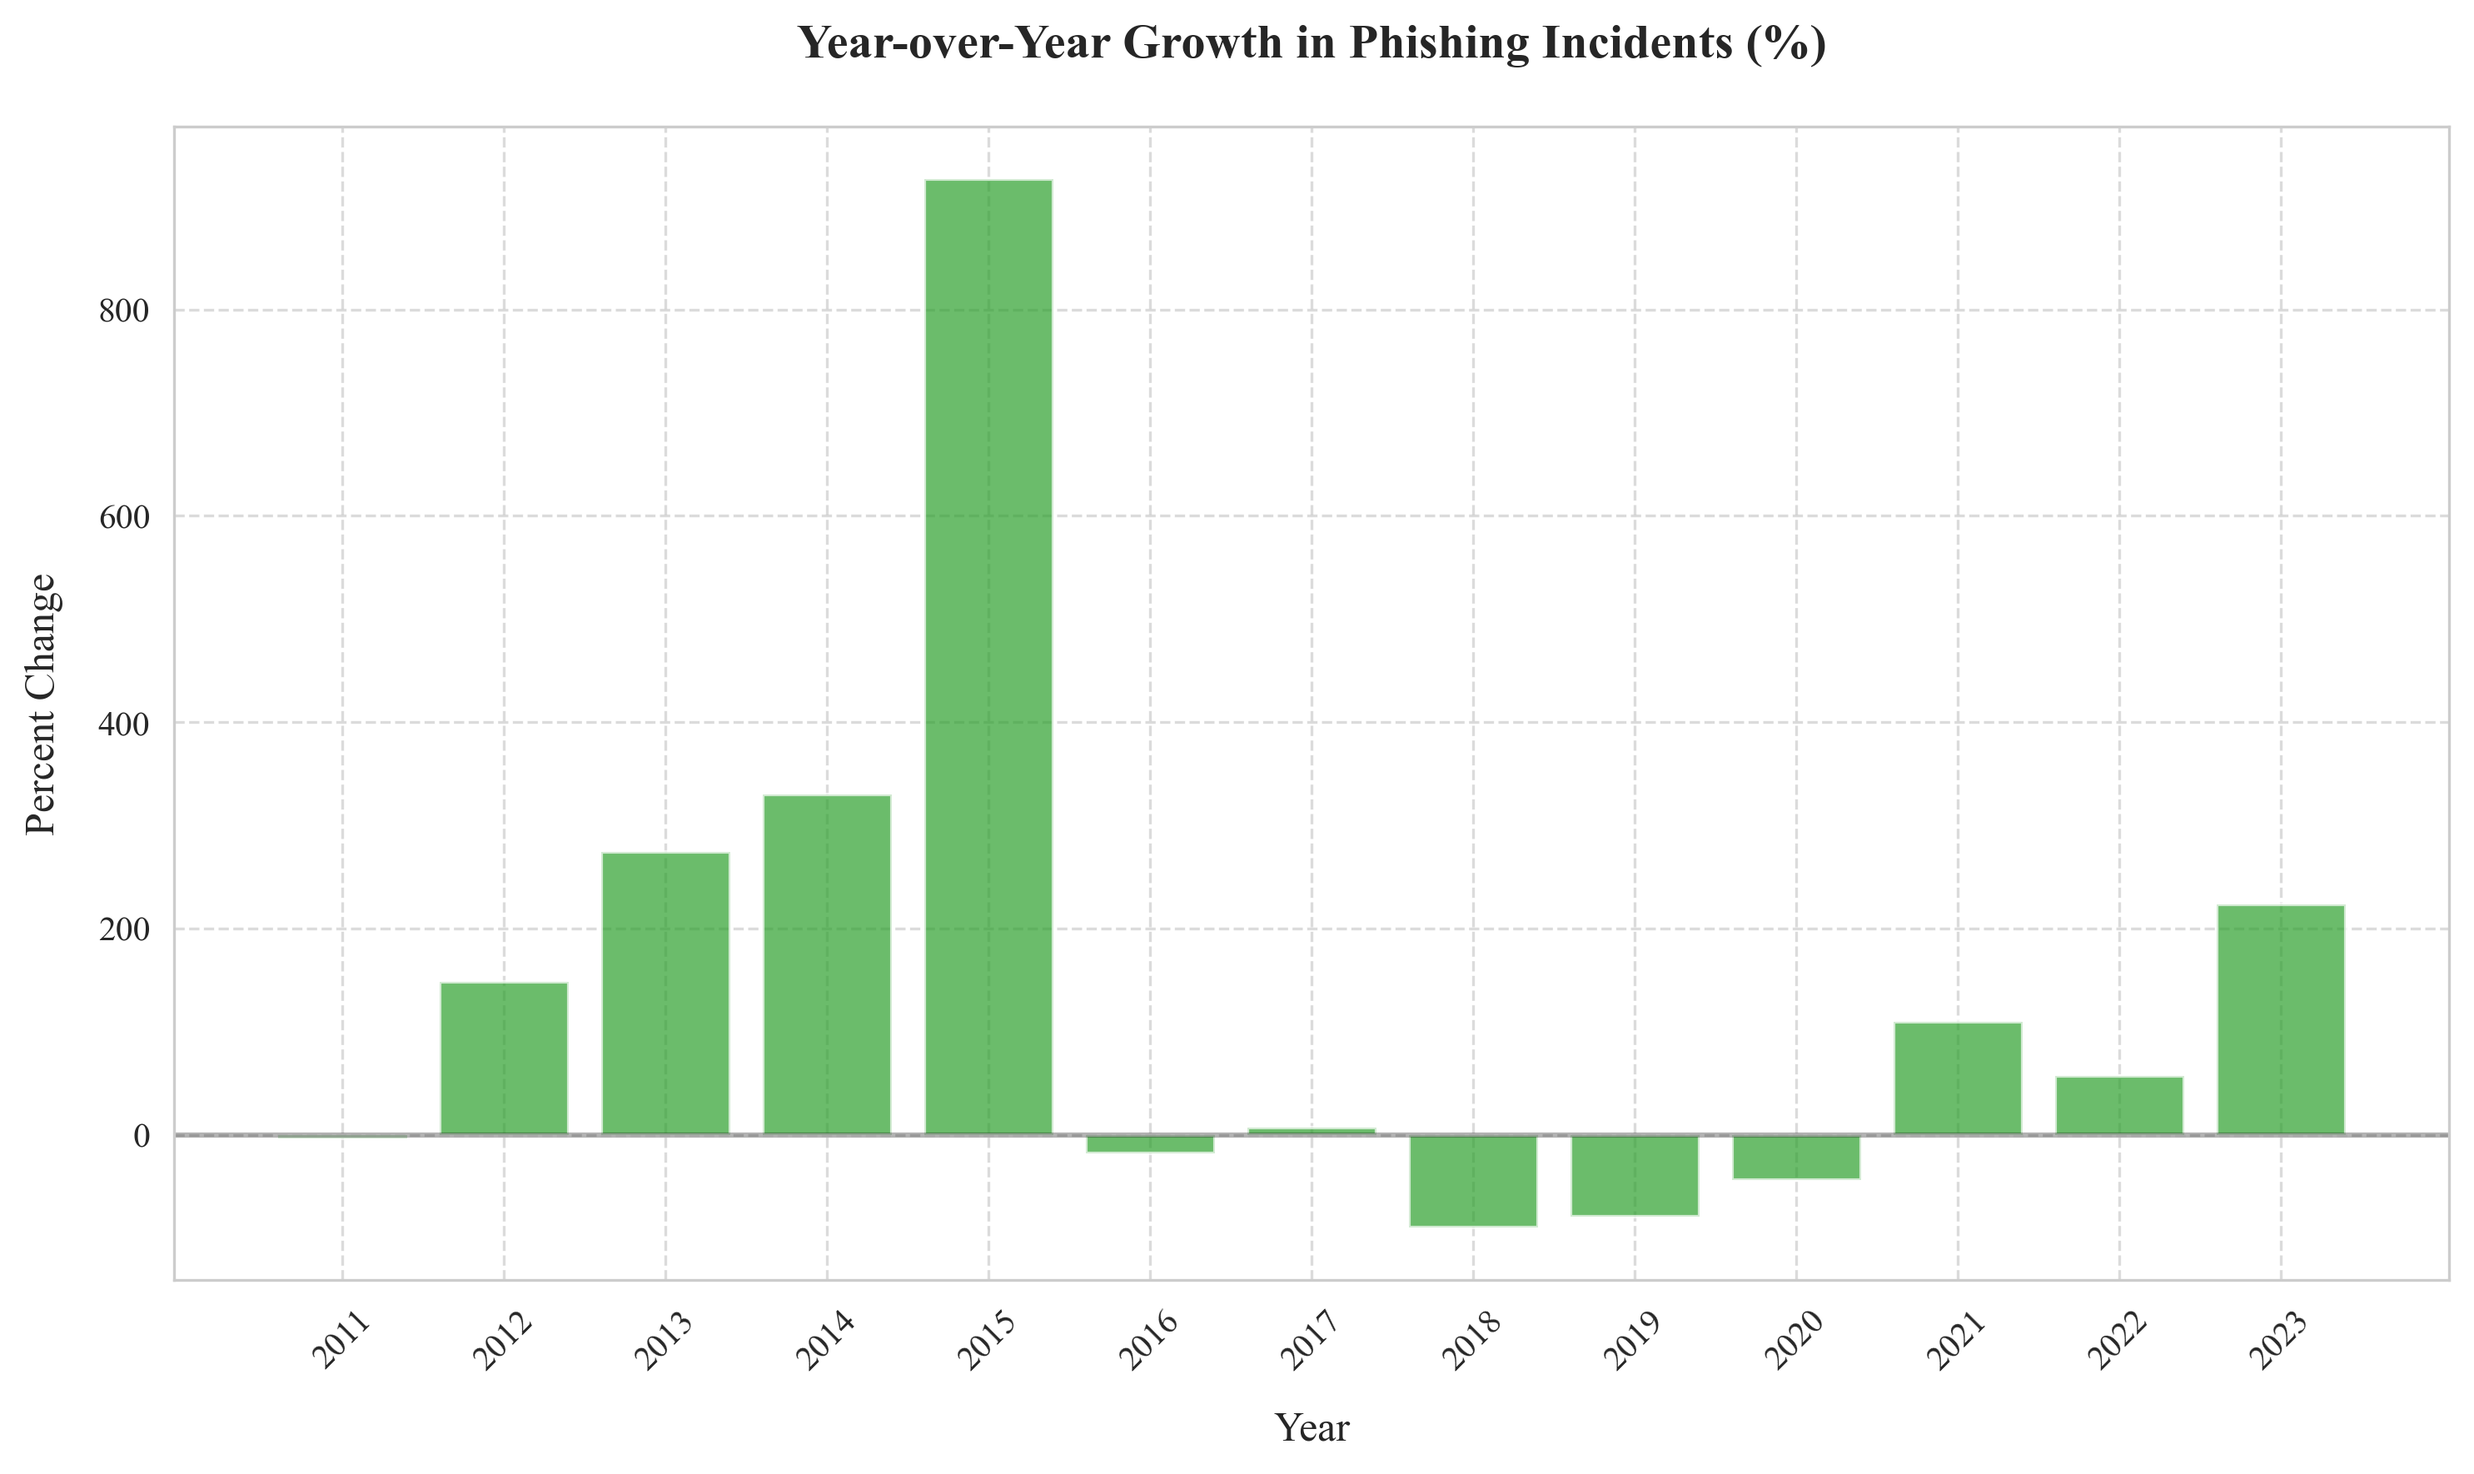
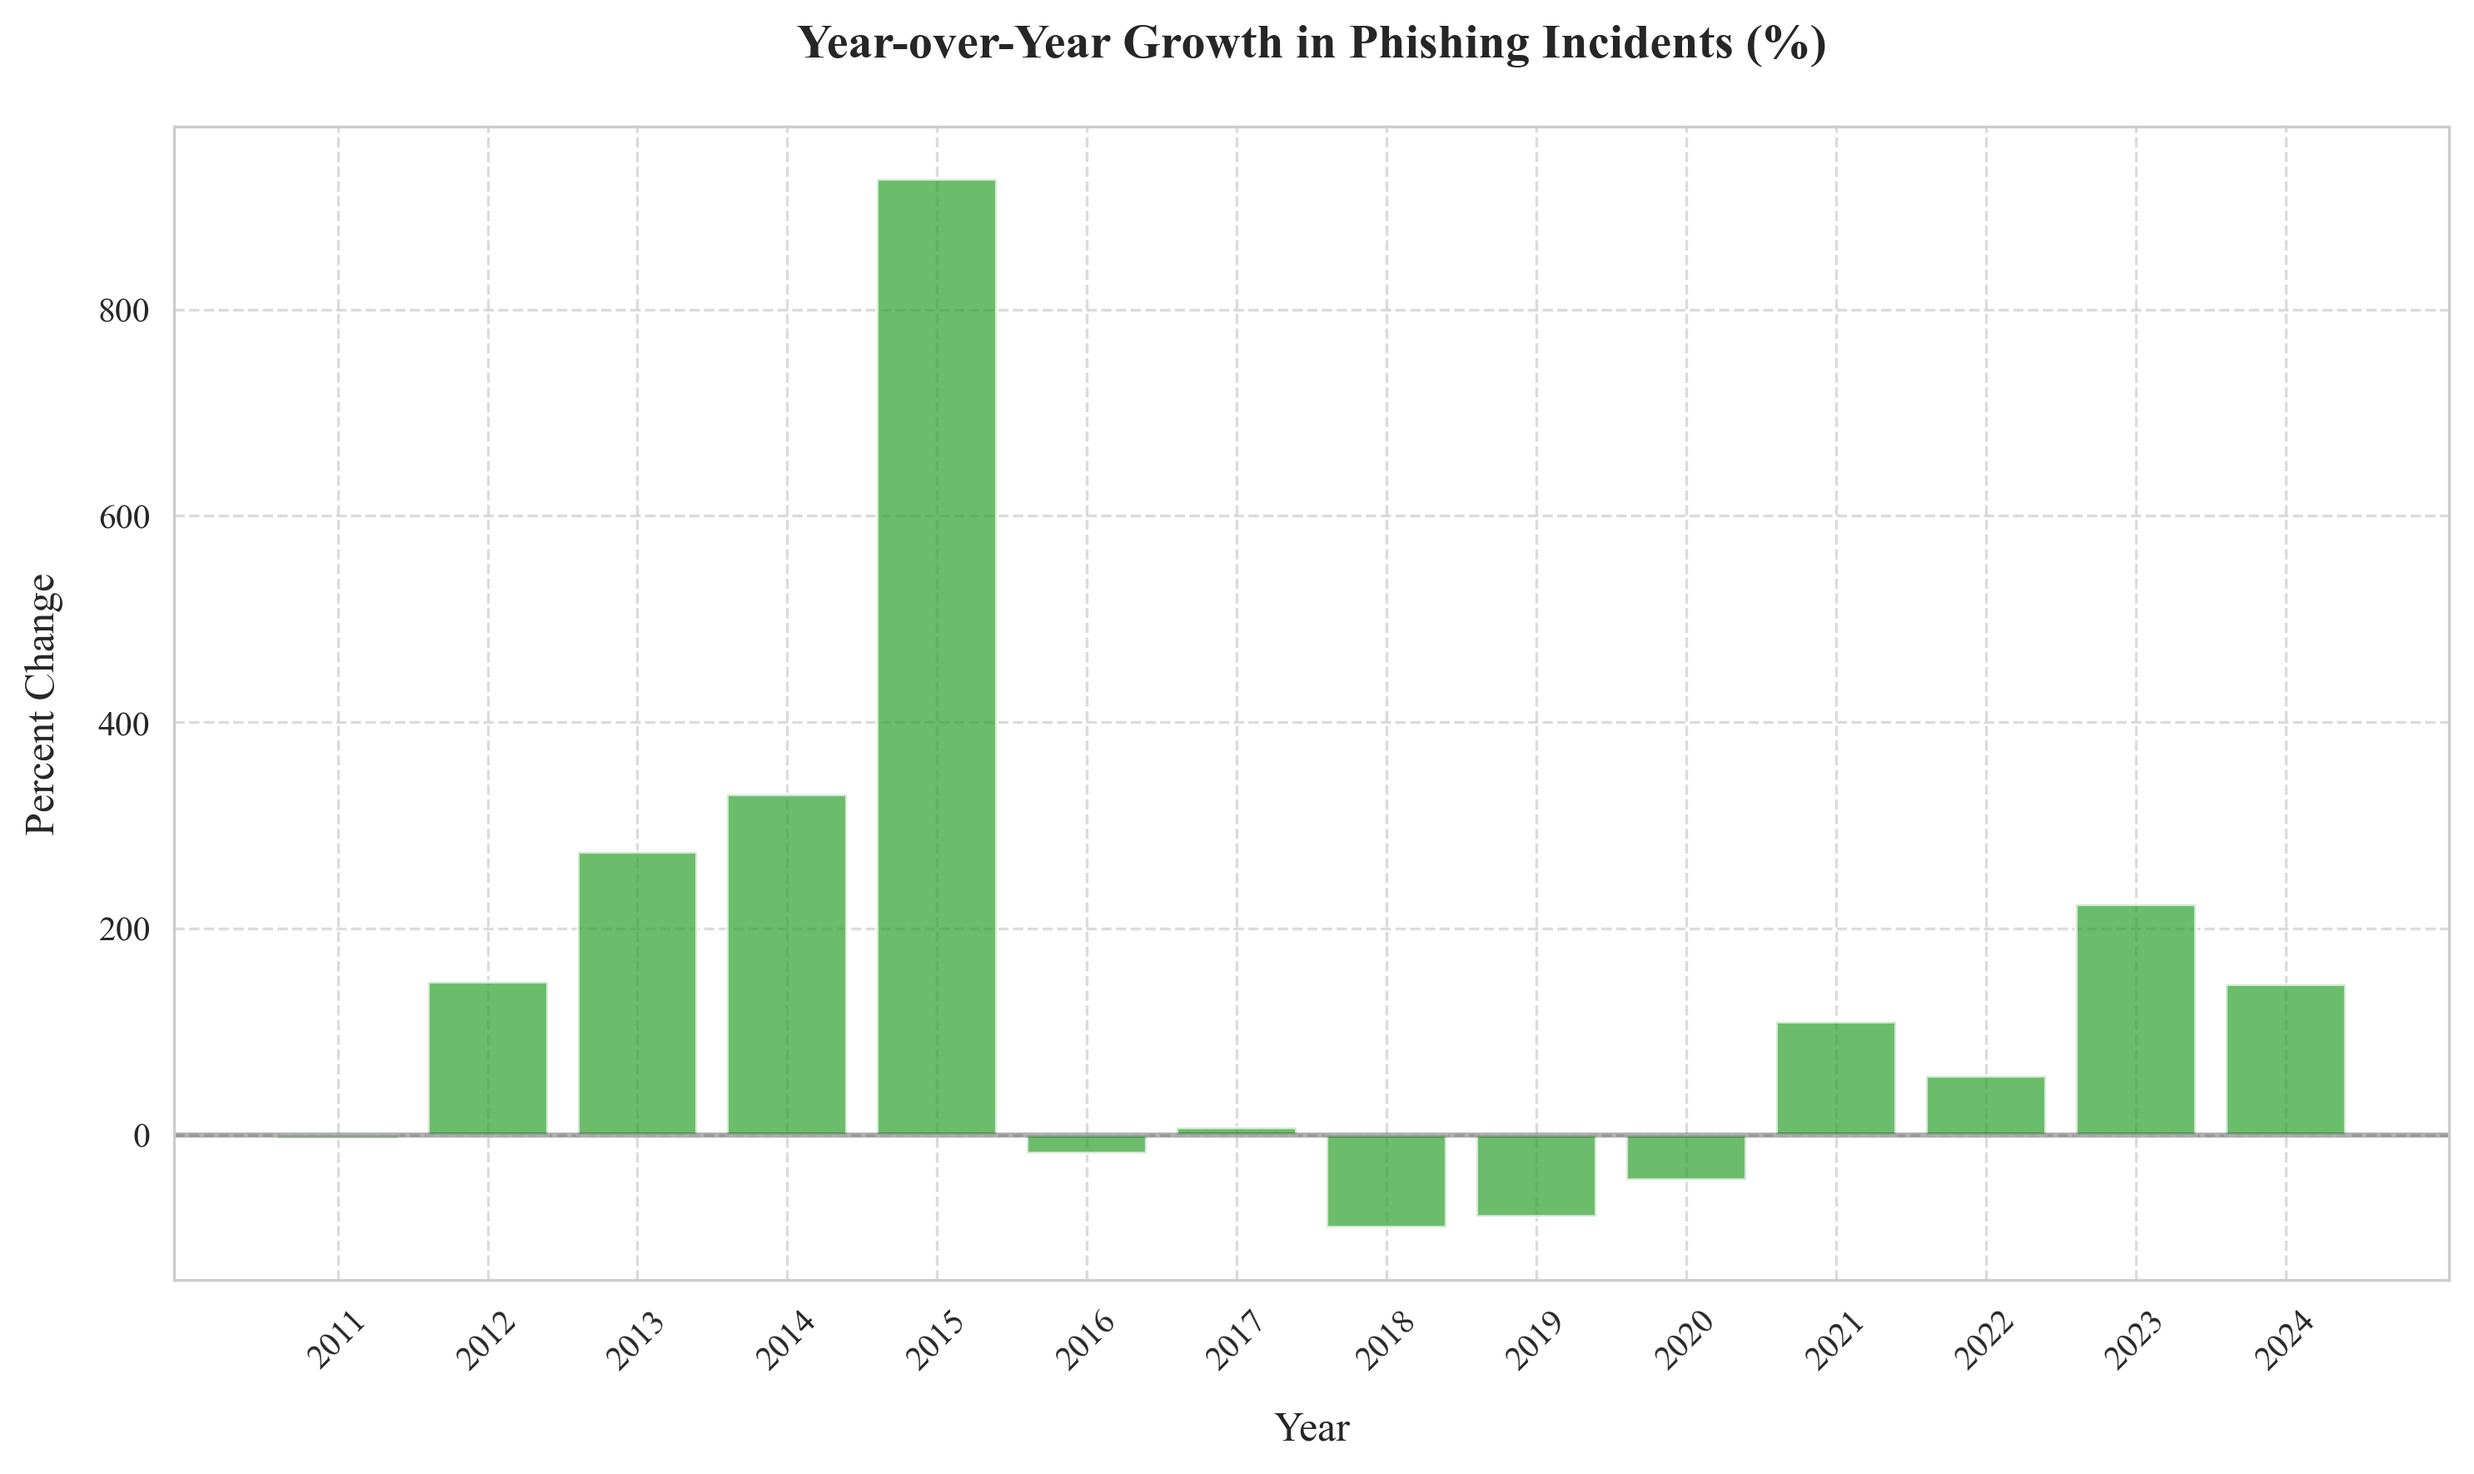
Update data to 2025

diff --git a/cert_poland/generate_graphs.py b/cert_poland/generate_graphs.py
@@ -1,23 +1,26 @@
 import json
+
 import matplotlib.pyplot as plt
 import numpy as np
 import pandas as pd
 import seaborn as sns
-from scipy import stats
+
 
 def setup_scientific_plot():
     plt.figure(figsize=(10, 6))
     plt.grid(True, linestyle="--", alpha=0.7)
     plt.tick_params(axis="both", which="major", labelsize=10)
 
+
 # Load JSON data
 with open("./datasets/cert_cp.json", "r") as f:
     data = json.load(f)
 
 # Create DataFrame
-df = pd.DataFrame([(year, stats["total_submissions"]) 
-                  for year, stats in data.items()],
-                  columns=["year", "total_submissions"])
+df = pd.DataFrame(
+    [(year, stats["total_submissions"]) for year, stats in data.items()],
+    columns=["year", "total_submissions"],
+)
 df["year"] = pd.to_numeric(df["year"])
 df = df.sort_values("year")
 
@@ -30,20 +33,34 @@ plt.rcParams["font.serif"] = ["Times New Roman"]
 setup_scientific_plot()
 ax = plt.gca()
 
-plt.plot(df["year"], df["total_submissions"], 
-         linewidth=2, color="#1f77b4", marker='o',
-         label="Total Incidents")
+plt.plot(
+    df["year"],
+    df["total_submissions"],
+    linewidth=2,
+    color="#1f77b4",
+    marker="o",
+    label="Total Incidents",
+)
 
 # Calculate and plot trendline
 x = df["year"].values
 y = df["total_submissions"].values
 z = np.polyfit(x, y, 1)
 p = np.poly1d(z)
-plt.plot(x, p(x), linestyle="--", color="#ff7f0e",
-         label=f"Trend (R² = {np.corrcoef(x, y)[0,1]**2:.3f})")
+plt.plot(
+    x,
+    p(x),
+    linestyle="--",
+    color="#ff7f0e",
+    label=f"Trend (R² = {np.corrcoef(x, y)[0, 1] ** 2:.3f})",
+)
 
-plt.title("Total Phishing Incidents Reported to CERT Poland (2010-2023)", 
-          pad=20, fontsize=14, fontweight="bold")
+plt.title(
+    "Total Phishing Incidents Reported to CERT Poland (2010-2024)",
+    pad=20,
+    fontsize=14,
+    fontweight="bold",
+)
 plt.xlabel("Year", fontsize=12, labelpad=10)
 plt.ylabel("Number of Incidents", fontsize=12, labelpad=10)
 plt.legend()
@@ -56,15 +73,18 @@ plt.close()
 setup_scientific_plot()
 df["pct_change"] = df["total_submissions"].pct_change() * 100
 
-plt.bar(df["year"][1:], df["pct_change"][1:],
-        color="#2ca02c", alpha=0.7)
+plt.bar(df["year"][1:], df["pct_change"][1:], color="#2ca02c", alpha=0.7)
 
-plt.title("Year-over-Year Growth in Phishing Incidents (%)", 
-          pad=20, fontsize=14, fontweight="bold")
+plt.title(
+    "Year-over-Year Growth in Phishing Incidents (%)",
+    pad=20,
+    fontsize=14,
+    fontweight="bold",
+)
 plt.xlabel("Year", fontsize=12, labelpad=10)
 plt.ylabel("Percent Change", fontsize=12, labelpad=10)
 plt.xticks(df["year"][1:], rotation=45)
-plt.axhline(y=0, color='black', linestyle='-', alpha=0.3)
+plt.axhline(y=0, color="black", linestyle="-", alpha=0.3)
 plt.tight_layout()
 plt.savefig("./graphs/yearly_growth.png", dpi=300, bbox_inches="tight")
 plt.close()

diff --git a/apwg/generate_graphs.py b/apwg/generate_graphs.py
@@ -95,10 +95,10 @@ add_trendline(
     ax, df_early["date"], df_early["value"], "#ff7f0e", label_suffix="2009-2015 "
 )
 add_trendline(
-    ax, df_late["date"], df_late["value"], "#2ca02c", label_suffix="2015-2024 "
+    ax, df_late["date"], df_late["value"], "#2ca02c", label_suffix="2015-2025 "
 )
 
-format_axis(ax, "Total Phishing Submissions Over Time (2009-2024)")
+format_axis(ax, "Total Phishing Submissions Over Time (2009-2025)")
 plt.ylabel("Number of Submissions", fontsize=12, labelpad=10)
 plt.legend()
 plt.tight_layout()
@@ -109,6 +109,8 @@ plt.close()
 yearly_df = df.copy()
 yearly_df['year'] = yearly_df['date'].dt.year
 yearly_totals = yearly_df.groupby('year')['value'].sum().reset_index()
+# Exclude 2025 as the year is not complete yet
+yearly_totals = yearly_totals[yearly_totals['year'] < 2025]
 
 setup_scientific_plot()
 ax = plt.gca()

diff --git a/generate_graphs.py b/generate_graphs.py
@@ -43,7 +43,7 @@ phishtank_df["year"] = pd.to_numeric(phishtank_df["year"])
 # Process APWG data - sum monthly submissions for each year
 apwg_yearly = {}
 for year, months in apwg_data.items():
-    if year != "2024":  # Skip incomplete current year
+    if year != "2025":  # Skip incomplete current year
         yearly_sum = sum(months.values())
         apwg_yearly[year] = yearly_sum
 
@@ -89,7 +89,7 @@ plt.plot(
 )
 
 plt.title(
-    "Normalized Phishing Incidents Across Different Sources (2009-2023)",
+    "Normalized Phishing Incidents Across Different Sources (2009-2024)",
     pad=20,
     fontsize=14,
     fontweight="bold",

diff --git a/run_dataset_correlation.py b/run_dataset_correlation.py
@@ -34,7 +34,7 @@ phishtank_df["year"] = pd.to_numeric(phishtank_df["year"])
 # Process APWG data - sum monthly submissions for each year
 apwg_yearly = {}
 for year, months in apwg_data.items():
-    if year != "2024":  # Skip incomplete current year
+    if year != "2025":  # Skip incomplete current year
         yearly_sum = sum(months.values())
         apwg_yearly[year] = yearly_sum
 

diff --git a/apwg/run_seasonality_index.py b/apwg/run_seasonality_index.py
@@ -74,7 +74,7 @@ def main():
     )
 
     plt.title(
-        "APWG Phishing Reports Seasonality Index (2009-2024)",
+        "APWG Phishing Reports Seasonality Index (2009-2025)",
         pad=20,
         fontsize=14,
         fontweight="bold",

diff --git a/README.md b/README.md
@@ -69,12 +69,7 @@ Each dataset has its own analysis scripts:
 ## Requirements
 
 - Python 3.8+
-- Required packages:
-  - matplotlib
-  - numpy
-  - pandas
-  - seaborn
-  - scipy
+- Required packages: see [requirements.txt](./requirements.txt)
 
 Install dependencies:
 
